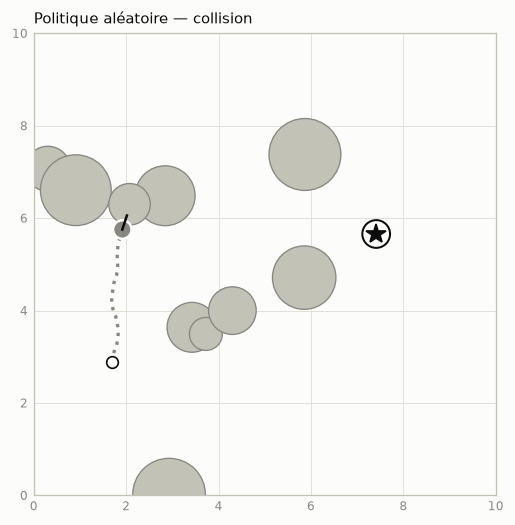
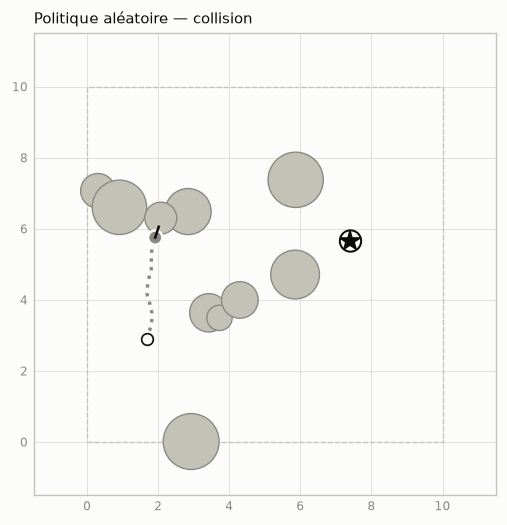
S2 : contrôleur expert VFH (97 % de succès, 0 collision)
Champs de potentiel essayés d'abord (74 %, minima locaux devant les
amas concaves), remplacés par un Vector Field Histogram qui ne lit que
l'observation. Grille de directions ancrée sur la cible + biais vers le
cap courant pour supprimer l'oscillation quand la cible est derrière.
Les bords de la zone ne sont plus des murs invisibles : marge de 1,5 m.

diff --git a/expert/vfh.py b/expert/vfh.py
@@ -1,0 +1,110 @@
+"""Contrôleur expert principal : Vector Field Histogram simplifié (Borenstein & Koren, 1991).
+
+Pourquoi pas les champs de potentiel seuls ? Ils ont été essayés en premier
+(`expert/potential_field.py`) et plafonnent autour de 70 % de succès : devant un
+amas d'obstacles concave, attraction et répulsion s'annulent et le robot reste
+bloqué (minimum local). Le VFH raisonne plutôt sur les *directions* libres :
+
+1. On teste N directions candidates autour du robot (tous les 5°).
+2. Une direction est bloquée si le segment [robot, robot + L·u] passe à moins de
+   (rayon obstacle + rayon robot + marge) du centre d'un obstacle visible.
+3. Parmi les directions libres, on prend la plus proche de la direction de la
+   cible (avec un léger biais vers le cap actuel pour départager les égalités).
+4. Un contrôleur proportionnel sur l'erreur de cap donne omega ; la vitesse v
+   diminue quand le robot est mal orienté, près d'un obstacle ou de la cible.
+
+Comme le champ de potentiel, il ne lit que le vecteur d'observation : l'élève (BC)
+dispose donc exactement de la même information que le professeur.
+"""
+
+from __future__ import annotations
+
+from dataclasses import dataclass
+
+import numpy as np
+
+from env.config import EnvConfig
+from env.observation import split_observation
+from env.robot_env import velocity_to_action
+
+
+@dataclass(frozen=True)
+class VFHConfig:
+    n_directions: int = 72
+    lookahead: float = 2.5  # longueur (m) du segment testé dans chaque direction
+    safety_margin: float = 0.2  # marge ajoutée au gonflement des obstacles
+    # Coût par radian d'écart au cap actuel. Assez fort pour que, pendant une rotation, l'option
+    # choisie devienne de plus en plus favorable : sinon deux trouées symétriques font osciller le robot.
+    turn_bias: float = 0.25
+    k_heading: float = 3.0
+    obstacle_slowdown: float = 0.6
+    goal_slowdown: float = 1.0
+    min_speed_factor: float = 0.25
+
+
+class VFHExpert:
+    def __init__(self, env_cfg: EnvConfig | None = None, cfg: VFHConfig | None = None):
+        self.env_cfg = env_cfg or EnvConfig()
+        self.cfg = cfg or VFHConfig()
+        # Décalages angulaires par rapport à la direction de la cible. Ancrer la grille sur la cible
+        # (et non sur le cap du robot) rend la discrétisation stable quand le robot pivote.
+        self._offsets = np.linspace(-np.pi, np.pi, self.cfg.n_directions, endpoint=False)
+
+    def __call__(self, obs: np.ndarray) -> np.ndarray:
+        return self.act(obs)
+
+    def candidate_angles(self, obs: np.ndarray) -> np.ndarray:
+        """Angles candidats dans le repère robot, dans (-pi, pi]."""
+        goal_angle = np.arctan2(obs[2], obs[1])
+        return (goal_angle + self._offsets + np.pi) % (2 * np.pi) - np.pi
+
+    def blocked_directions(self, obs: np.ndarray) -> tuple[np.ndarray, float, float]:
+        """Masque (N,) des directions bloquées, distance à la cible, distance de surface minimale."""
+        ec, c = self.env_cfg, self.cfg
+        goal, obstacles = split_observation(np.asarray(obs, dtype=np.float64), ec)
+        goal_dist = goal[0] * ec.arena_size
+        angles = self.candidate_angles(obs)
+        dirs = np.stack([np.cos(angles), np.sin(angles)], axis=1)
+        blocked = np.zeros(len(angles), dtype=bool)
+
+        valid = obstacles[obstacles[:, 4] > 0.5]
+        if len(valid) == 0:
+            return blocked, goal_dist, np.inf
+        p = valid[:, :2] * ec.sensing_range  # centres dans le repère robot
+        surface = valid[:, 2] * ec.sensing_range
+        center_dist = np.linalg.norm(p, axis=1)
+        inflated = center_dist - surface + c.safety_margin  # rayon obstacle + rayon robot + marge
+
+        # On ne regarde pas plus loin que la cible : un obstacle derrière elle ne gêne pas.
+        length = min(c.lookahead, goal_dist + ec.goal_radius)
+        proj = dirs @ p.T  # (N, M) : abscisse du centre le long de chaque direction
+        t = np.clip(proj, 0.0, length)
+        dist2 = center_dist[None] ** 2 - 2 * t * proj + t**2
+        hits = dist2 < inflated[None] ** 2
+
+        # Obstacle déjà à l'intérieur de sa zone gonflée : on ne bloque que les directions qui s'en rapprochent.
+        inside = center_dist < inflated
+        if inside.any():
+            hits[:, inside] = proj[:, inside] > 0.0
+        blocked = hits.any(axis=1)
+        return blocked, goal_dist, float(surface.min())
+
+    def choose_heading(self, obs: np.ndarray) -> tuple[float, float, float]:
+        blocked, goal_dist, min_surface = self.blocked_directions(obs)
+        angles = self.candidate_angles(obs)
+        cost = np.abs(self._offsets) + self.cfg.turn_bias * np.abs(angles)
+        if blocked.all():
+            # Encerclé : on pivote sur place vers la cible, la vitesse sera nulle.
+            return float(np.arctan2(obs[2], obs[1])), goal_dist, 0.0
+        cost[blocked] = np.inf
+        return float(angles[np.argmin(cost)]), goal_dist, min_surface
+
+    def act(self, obs: np.ndarray) -> np.ndarray:
+        ec, c = self.env_cfg, self.cfg
+        heading_error, goal_dist, min_surface = self.choose_heading(obs)
+        omega = float(np.clip(c.k_heading * heading_error, -ec.omega_max, ec.omega_max))
+        align = max(np.cos(heading_error), 0.0) ** 2
+        near_obstacle = np.clip(min_surface / c.obstacle_slowdown, c.min_speed_factor, 1.0) if min_surface > 0 else 0.0
+        near_goal = np.clip(goal_dist / c.goal_slowdown, c.min_speed_factor, 1.0)
+        v = ec.v_max * align * near_obstacle * near_goal
+        return velocity_to_action(v, omega, ec)

diff --git a/expert/potential_field.py b/expert/potential_field.py
@@ -1,0 +1,98 @@
+"""Contrôleur expert écrit à la main : champs de potentiel + composante tourbillonnaire.
+
+Choix de conception
+-------------------
+* L'expert ne lit QUE le vecteur d'observation (cible + K obstacles proches dans le
+  repère robot), exactement ce que verront le BC et PPO. Un expert "privilégié" qui
+  connaîtrait toute la carte prendrait des décisions que l'élève ne peut pas
+  reproduire à partir de ses entrées : l'erreur du BC deviendrait irréductible et la
+  comparaison serait biaisée.
+* Champs de potentiel classiques (Khatib, 1986) : attraction vers la cible +
+  répulsion des obstacles. Leur défaut connu : les minima locaux (obstacle pile
+  entre le robot et la cible, les forces s'annulent). On ajoute donc un champ
+  tangentiel (« vortex ») qui fait contourner l'obstacle par le côté où se trouve
+  la cible ; toutes les composantes tangentielles partagent le même sens de
+  rotation, sinon deux obstacles voisins peuvent créer des vortex opposés qui
+  s'annulent dans l'interstice.
+* La direction désirée est convertie en (v, omega) par un contrôleur proportionnel
+  sur l'erreur de cap, avec ralentissement quand le robot est mal orienté, près
+  d'un obstacle ou près de la cible (évite d'orbiter autour de la cible).
+"""
+
+from __future__ import annotations
+
+from dataclasses import dataclass
+
+import numpy as np
+
+from env.config import EnvConfig
+from env.observation import split_observation
+from env.robot_env import velocity_to_action
+
+
+@dataclass(frozen=True)
+class ExpertConfig:
+    influence: float = 1.2  # distance de surface (m) sous laquelle un obstacle agit
+    k_rep: float = 0.35  # gain de répulsion
+    k_tan: float = 0.8  # gain tangentiel (contournement)
+    k_heading: float = 3.0  # gain proportionnel sur l'erreur de cap
+    obstacle_slowdown: float = 0.6  # distance de surface sous laquelle on ralentit
+    goal_slowdown: float = 1.0  # distance à la cible sous laquelle on ralentit
+    min_speed_factor: float = 0.25
+
+
+class PotentialFieldExpert:
+    def __init__(self, env_cfg: EnvConfig | None = None, cfg: ExpertConfig | None = None):
+        self.env_cfg = env_cfg or EnvConfig()
+        self.cfg = cfg or ExpertConfig()
+
+    def __call__(self, obs: np.ndarray) -> np.ndarray:
+        return self.act(obs)
+
+    def desired_direction(self, obs: np.ndarray) -> tuple[np.ndarray, float]:
+        """Renvoie la direction désirée (repère robot) et la distance de surface minimale."""
+        ec, c = self.env_cfg, self.cfg
+        goal, obstacles = split_observation(np.asarray(obs, dtype=np.float64), ec)
+        g_hat = goal[1:3]
+        force = g_hat.copy()
+
+        valid = obstacles[obstacles[:, 4] > 0.5]
+        if len(valid) == 0:
+            return force, np.inf
+        rel = valid[:, :2] * ec.sensing_range
+        surface = valid[:, 2] * ec.sensing_range
+        dist = np.maximum(np.linalg.norm(rel, axis=1), 1e-6)
+        p_hat = rel / dist[:, None]
+
+        near = surface < c.influence
+        strength = np.where(near, 1.0 / np.maximum(surface, 0.05) - 1.0 / c.influence, 0.0)
+        blocking = np.clip(p_hat @ g_hat, 0.0, None)  # 1 si l'obstacle est pile vers la cible
+
+        # Sens de contournement commun, décidé par l'obstacle le plus gênant :
+        # passer du côté de la cible, et en cas d'égalité du côté vers lequel le robot pointe déjà.
+        score = strength * blocking
+        if score.max() > 0:
+            i = int(np.argmax(score))
+            cross = p_hat[i, 0] * g_hat[1] - p_hat[i, 1] * g_hat[0]
+            side = cross - 0.3 * p_hat[i, 1]
+            sign = 1.0 if side >= 0 else -1.0
+        else:
+            sign = 1.0
+        tangent = sign * np.stack([-p_hat[:, 1], p_hat[:, 0]], axis=1)
+
+        force += c.k_rep * (strength[:, None] * -p_hat).sum(axis=0)
+        force += c.k_tan * ((strength * blocking)[:, None] * tangent).sum(axis=0)
+        return force, float(surface.min())
+
+    def act(self, obs: np.ndarray) -> np.ndarray:
+        ec, c = self.env_cfg, self.cfg
+        force, min_surface = self.desired_direction(obs)
+        heading_error = float(np.arctan2(force[1], force[0]))
+        goal_dist = float(obs[0]) * ec.arena_size
+
+        omega = float(np.clip(c.k_heading * heading_error, -ec.omega_max, ec.omega_max))
+        align = max(np.cos(heading_error), 0.0) ** 2
+        near_obstacle = np.clip(min_surface / c.obstacle_slowdown, c.min_speed_factor, 1.0)
+        near_goal = np.clip(goal_dist / c.goal_slowdown, c.min_speed_factor, 1.0)
+        v = ec.v_max * align * near_obstacle * near_goal
+        return velocity_to_action(v, omega, ec)

diff --git a/expert/evaluate.py b/expert/evaluate.py
@@ -1,0 +1,57 @@
+"""Critère S2 : taux de succès de l'expert >= 90 % sur N scénarios aléatoires.
+
+python -m expert.evaluate --n 500 --gif
+"""
+
+import argparse
+from collections import Counter
+from pathlib import Path
+
+import matplotlib.pyplot as plt
+import numpy as np
+
+from env import EnvConfig, NavigationEnv
+from env.render import animate_trajectories, plot_trajectories
+from env.rollout import run_episode
+from expert import EXPERTS, make_expert
+
+
+def main():
+    parser = argparse.ArgumentParser()
+    parser.add_argument("--expert", choices=list(EXPERTS), default="vfh")
+    parser.add_argument("--n", type=int, default=500)
+    parser.add_argument("--seed-offset", type=int, default=0)
+    parser.add_argument("--gif", action="store_true", help="écrit un GIF de démonstration et un tracé des échecs")
+    parser.add_argument("--out", type=Path, default=Path("results"))
+    args = parser.parse_args()
+
+    cfg = EnvConfig()
+    env = NavigationEnv(cfg)
+    expert = make_expert(args.expert, cfg)
+    episodes = [run_episode(env, expert, seed=args.seed_offset + i) for i in range(args.n)]
+
+    outcomes = Counter(ep.outcome for ep in episodes)
+    success = np.mean([ep.success for ep in episodes])
+    steps = [ep.steps for ep in episodes if ep.success]
+    print(f"Expert {args.expert} sur {args.n} scénarios : succès {success:.1%}  {dict(outcomes)}")
+    print(f"Durée moyenne (succès) : {np.mean(steps) * cfg.dt:.1f} s")
+    failures = [args.seed_offset + i for i, ep in enumerate(episodes) if not ep.success]
+    print(f"Graines en échec : {failures[:30]}")
+
+    if args.gif:
+        args.out.mkdir(parents=True, exist_ok=True)
+        ep = episodes[0]
+        animate_trajectories(ep.scenario, {"expert": ep.trajectory}, cfg, args.out / "expert.gif", title="Expert")
+        if failures:
+            n = min(6, len(failures))
+            fig, axes = plt.subplots(1, n, figsize=(3.2 * n, 3.4), squeeze=False)
+            for ax, seed in zip(axes[0], failures[:n], strict=False):
+                fail = episodes[seed - args.seed_offset]
+                plot_trajectories(
+                    fail.scenario, {"expert": fail.trajectory}, cfg, ax=ax, title=f"{seed} {fail.outcome}"
+                )
+            fig.savefig(args.out / "expert_failures.png", bbox_inches="tight")
+
+
+if __name__ == "__main__":
+    main()

diff --git a/tests/test_expert.py b/tests/test_expert.py
@@ -1,0 +1,44 @@
+import numpy as np
+
+from env import EnvConfig, NavigationEnv, Scenario
+from env.observation import build_observation
+from env.rollout import run_episode
+from expert import PotentialFieldExpert, VFHExpert
+
+
+def test_vfh_expert_success_rate():
+    cfg = EnvConfig()
+    env = NavigationEnv(cfg)
+    expert = VFHExpert(cfg)
+    episodes = [run_episode(env, expert, seed=10_000 + i) for i in range(40)]
+    assert np.mean([ep.success for ep in episodes]) >= 0.9
+    assert not any(ep.collision for ep in episodes)
+
+
+def test_vfh_goes_straight_without_obstacles():
+    cfg = EnvConfig()
+    obs = build_observation(np.array([1.0, 1.0, 0.0]), np.array([6.0, 1.0]), np.zeros((0, 3)), cfg)
+    a = VFHExpert(cfg)(obs)
+    np.testing.assert_allclose(a, [1.0, 0.0], atol=1e-6)
+
+
+def test_vfh_avoids_obstacle_straight_ahead():
+    cfg = EnvConfig()
+    obstacles = np.array([[2.5, 1.0, 0.5]])
+    obs = build_observation(np.array([1.0, 1.0, 0.0]), np.array([6.0, 1.0]), obstacles, cfg)
+    heading, _, _ = VFHExpert(cfg).choose_heading(obs)
+    assert abs(heading) > 0.3  # ne fonce pas droit dans l'obstacle
+
+
+def test_vfh_does_not_chatter_when_goal_is_behind():
+    cfg = EnvConfig()
+    sc = Scenario(np.array([5.0, 5.0]), 0.0, np.array([1.0, 5.0]), np.array([[3.5, 5.0, 0.6]]))
+    env = NavigationEnv(cfg)
+    ep = run_episode(env, VFHExpert(cfg), scenario=sc)
+    assert ep.success
+
+
+def test_potential_field_expert_runs():
+    cfg = EnvConfig()
+    ep = run_episode(NavigationEnv(cfg), PotentialFieldExpert(cfg), seed=0)
+    assert ep.steps > 0

diff --git a/env/render.py b/env/render.py
@@ -9,7 +9,7 @@ import matplotlib
 matplotlib.use("Agg")
 import matplotlib.pyplot as plt  # noqa: E402
 import numpy as np  # noqa: E402
-from matplotlib.patches import Circle  # noqa: E402
+from matplotlib.patches import Circle, Rectangle  # noqa: E402
 from PIL import Image  # noqa: E402
 
 from env.config import EnvConfig  # noqa: E402
@@ -40,9 +40,13 @@ def style_for(name: str):
 
 def draw_scenario(ax, sc: Scenario, cfg: EnvConfig):
     ax.set_facecolor(SURFACE)
-    ax.set_xlim(0, cfg.arena_size)
-    ax.set_ylim(0, cfg.arena_size)
+    m = cfg.boundary_margin
+    ax.set_xlim(-m, cfg.arena_size + m)
+    ax.set_ylim(-m, cfg.arena_size + m)
     ax.set_aspect("equal")
+    ax.add_patch(
+        Rectangle((0, 0), cfg.arena_size, cfg.arena_size, fill=False, edgecolor=OBSTACLE, linestyle="--", lw=0.8)
+    )
     ax.set_xticks(range(0, int(cfg.arena_size) + 1, 2))
     ax.set_yticks(range(0, int(cfg.arena_size) + 1, 2))
     ax.tick_params(colors=MUTED, labelsize=7, length=0)

diff --git a/env/robot_env.py b/env/robot_env.py
@@ -75,7 +75,8 @@ class NavigationEnv(gym.Env):
         dist = self._goal_distance()
         clearance = self._min_clearance()
         collision = clearance <= 0.0
-        out_of_bounds = not (0.0 <= self.pose[0] <= cfg.arena_size and 0.0 <= self.pose[1] <= cfg.arena_size)
+        lo, hi = -cfg.boundary_margin, cfg.arena_size + cfg.boundary_margin
+        out_of_bounds = not (lo <= self.pose[0] <= hi and lo <= self.pose[1] <= hi)
         success = dist <= cfg.goal_radius and not collision
 
         # Shaping par potentiel (Ng et al., 1999) : r = Φ(s) - Φ(s') avec Φ = distance à la cible.

diff --git a/env/config.py b/env/config.py
@@ -21,8 +21,11 @@ class RewardConfig:
 
 @dataclass(frozen=True)
 class EnvConfig:
-    # Arène carrée [0, size] x [0, size]
+    # Zone carrée [0, size] x [0, size] où sont placés départ, cible et obstacles.
+    # Les bords ne sont pas des murs (ils ne figurent pas dans l'observation) : le robot peut
+    # déborder de `boundary_margin` pour contourner un obstacle ; au-delà il est considéré perdu.
     arena_size: float = 10.0
+    boundary_margin: float = 1.5
 
     # Robot différentiel modélisé comme un unicycle
     robot_radius: float = 0.2

diff --git a/expert/__init__.py b/expert/__init__.py
@@ -1,0 +1,13 @@
+"""Contrôleurs experts : référence chiffrée et source des démonstrations pour le BC."""
+
+from expert.potential_field import ExpertConfig, PotentialFieldExpert
+from expert.vfh import VFHConfig, VFHExpert
+
+EXPERTS = {"vfh": VFHExpert, "potential_field": PotentialFieldExpert}
+
+
+def make_expert(name: str = "vfh", env_cfg=None):
+    return EXPERTS[name](env_cfg)
+
+
+__all__ = ["ExpertConfig", "PotentialFieldExpert", "VFHConfig", "VFHExpert", "EXPERTS", "make_expert"]
